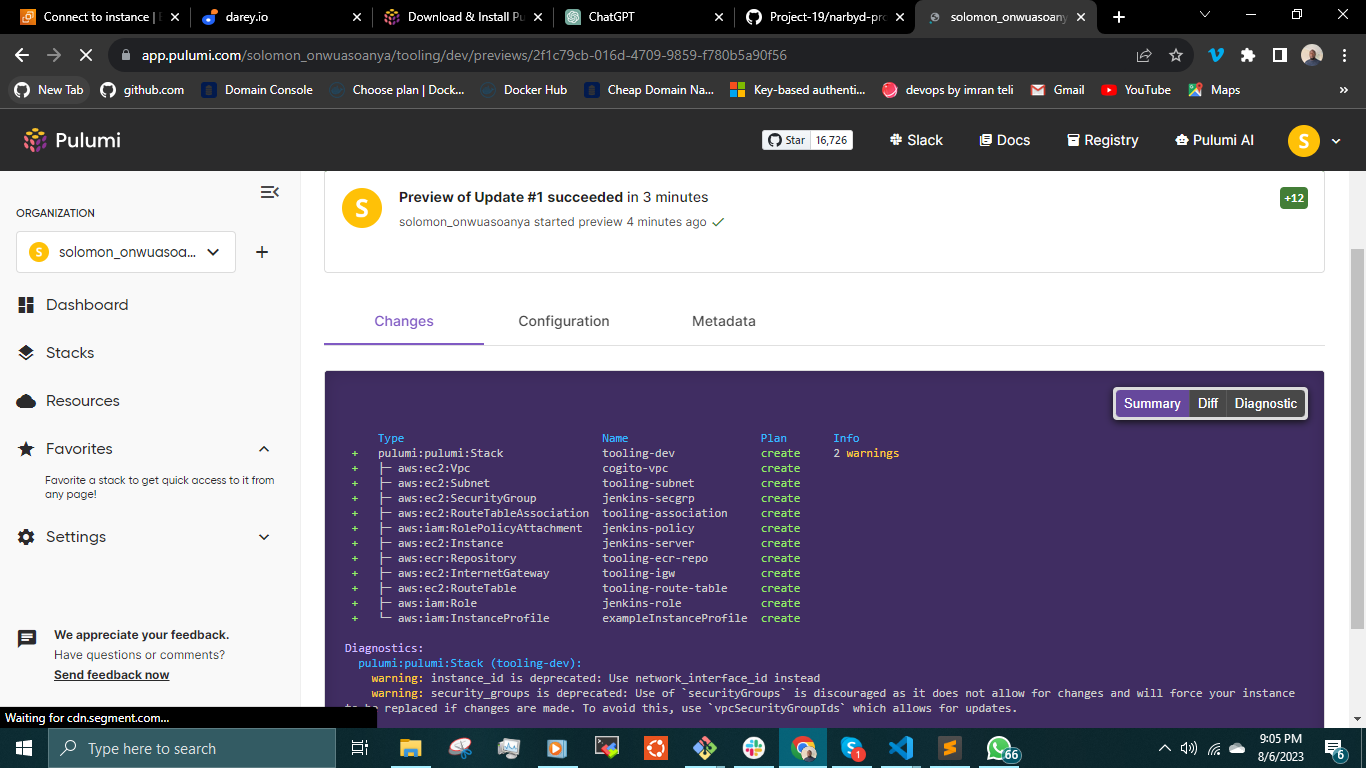
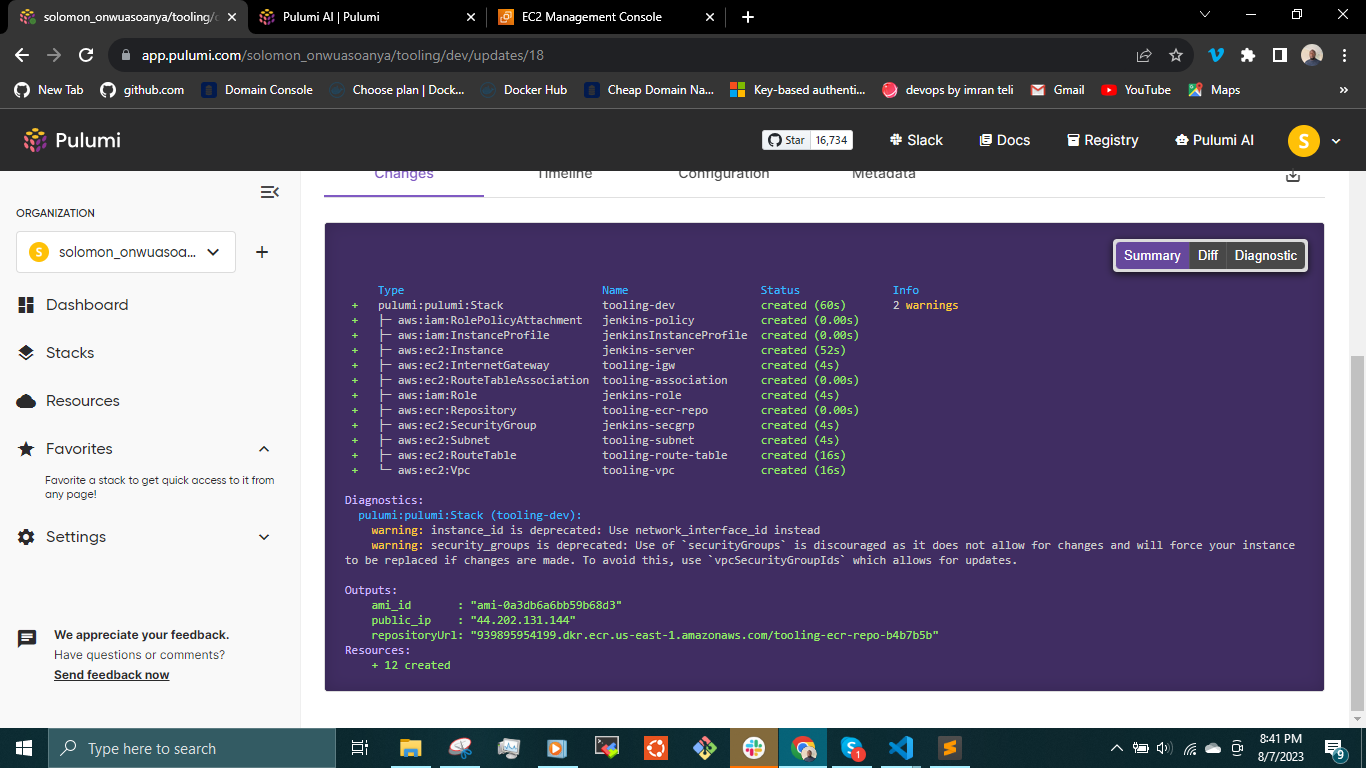
updated pulumi code

diff --git a/Containerizing-a-PHP-Application-using-Jenkins-CD-Pipeline-and-Elastic-Container-Registry(ECR).md b/Containerizing-a-PHP-Application-using-Jenkins-CD-Pipeline-and-Elastic-Container-Registry(ECR).md
@@ -1,4 +1,4 @@
-## CONTAINERIZING A PHP APPLICATION USING JENKINS CI/CD PIPELINE AND ELASTIC CONTAINER REGISTRY (ECR).
+## __CONTAINERIZING A PHP APPLICATION USING JENKINS CI/CD PIPELINE AND ELASTIC CONTAINER REGISTRY (ECR).__
 
 To deploy many small applications such as web front-end, web-backend, processing jobs, monitoring, logging solutions, etc, some of the applications will require various OS and runtimes of different versions and conflicting dependencies – in such case you would need to spin up serves for each group of applications with the exact OS/runtime/dependencies requirements. When it scales out to tens/hundreds and even thousands of applications, this approach becomes very tedious and challenging to maintain.
 
@@ -18,19 +18,24 @@ __Prerequisites__
 - Docker installed on the machine where Jenkins is running.
 - AWS CLI installed in the jenkins server.
 
-The process involves creating a Docker image to ensure its optimal functionality and then utilizing Jenkins CI/CD with Terraform and PAcker for infrastructure and AMI build respectively, enabling the smooth deployment of the Docker image to Amazon Elastic Container Registry (ECR).
+ The process involves creating a Docker image to ensure its optimal functionality and then utilizing Jenkins CI/CD in conjunction with __Terraform__ and __Packer__ to leverage infrastructure provisioning and AMI build. Alternatively, __Pulumi__ is employed for infrastructure provisioning enabling the smooth deployment of the Docker image to Amazon Elastic Container Registry (ECR).
 
 __TASK__
 
+__Using Terraform__
+
 - Create the AMI for Jenkins server using Packer
-- Provision the Infrastructure for ECR and Jenkins server using Terraform. The Jenkins server will be provisioned using the AMI created.
+- Utilize Terraform to deploy the necessary infrastructure components for Amazon Elastic Container Registry (ECR) and a Jenkins server. The Jenkins server instantiation will leverage a previously generated Amazon Machine Image (AMI) during the provisioning process.
+- Configure Jenkins to build and push docker image to ECR.
+
+__Using Pulumi__
+
+- Utilize Pulumi to deploy the necessary infrastructure components for Amazon Elastic Container Registry (ECR) and a Jenkins server. Pulumi uses the script `jenkins-docker-setup.sh` to install jenkins and docker in the instance while provisioning.
 - Configure Jenkins to build and push docker image to ECR.
 
 Building Docker images prior to setting up the deployment pipeline for Amazon Elastic Container Registry (ECR) is considered a commendable approach from a technical standpoint. This practice ensures that the containerized applications or services are encapsulated within Docker images before they are transmitted to ECR for storage and distribution. By generating Docker images upfront, the pipeline can efficiently and reliably handle the deployment process, enabling seamless integration and automation of the containerization and delivery workflow to ECR.
 
-__Tooling Application__
-
-create an Ec2 Instance, install Docker and add the user to the docker group.
+Create an Ec2 Instance, install Docker and add the user to the docker group.
 
 `$ sudo usermod -aG docker ubuntu`
 
@@ -188,11 +193,11 @@ To remove the network
 
 `$ docker network rm tooling_app_network`
 
-__AUTOMATE INFRASTRUCTURE PROVISIONING UTILIZING TERRAFORM OR PULUMI__
+##__AUTOMATE INFRASTRUCTURE PROVISIONING UTILIZING TERRAFORM OR PULUMI__
 
 I will undertake the provisioning of the infrastructure through the utilization of __Terraform__. Additionally, I will demonstrate the provisioning process utilizing __Pulumi__, affording you the flexibility to select either of these Infrastructure as Code (IAC) tools.
 
-__Provisioning the Infrastructure using Terraform__
+##__Provisioning the Infrastructure using Terraform__
 
 First, we build the AMI by utilizing the `jenkins-docker.sh` script, to prepare an AMI for the jenkins server.
 
@@ -287,9 +292,10 @@ The resources are created.
 Establish an SSH connection to the Jenkins server and proceed with the configuration adjustments required to enable the build and push functionalities to the Elastic Container Registry (ECR)
 
 `$ sudo systemctl start jenkins`
+
 `$ sudo systemctl enable jenkins`
 
-__Provisioning the Infrastructure using Pulumi__
+##__Provisioning the Infrastructure using Pulumi__
 
 Provisioning infrastructure using Pulumi involves using code to define and manage cloud resources across various cloud providers like AWS, Azure, Google Cloud, and others. Pulumi allows you to define your infrastructure as code (IaC) using your preferred programming language, such as JavaScript, TypeScript, Python, Go, and more.
 
@@ -330,3 +336,11 @@ We can also use the link provided to see the provisioning in the pulumi console.
 ![](./images/qqaa.PNG)
 
 ![](./images/plink.PNG)
+
+Now we can ssh into the jenkins-server and setup the configuration of an automated process for Docker image building. This setup involves Jenkins being triggered to initiate a build procedure upon detecting a push event within the GitHub repository, accomplished through the utilization of a webhook mechanism.
+
+The initial step involves the installation of the __plugins__ essential for facilitating this process. This plugin installation is undertaken in conjunction with the execution of other mandatory configuration adjustments to enable the seamless operation of the intended process.
+
+The plugins to be installed include:
+
+- 
